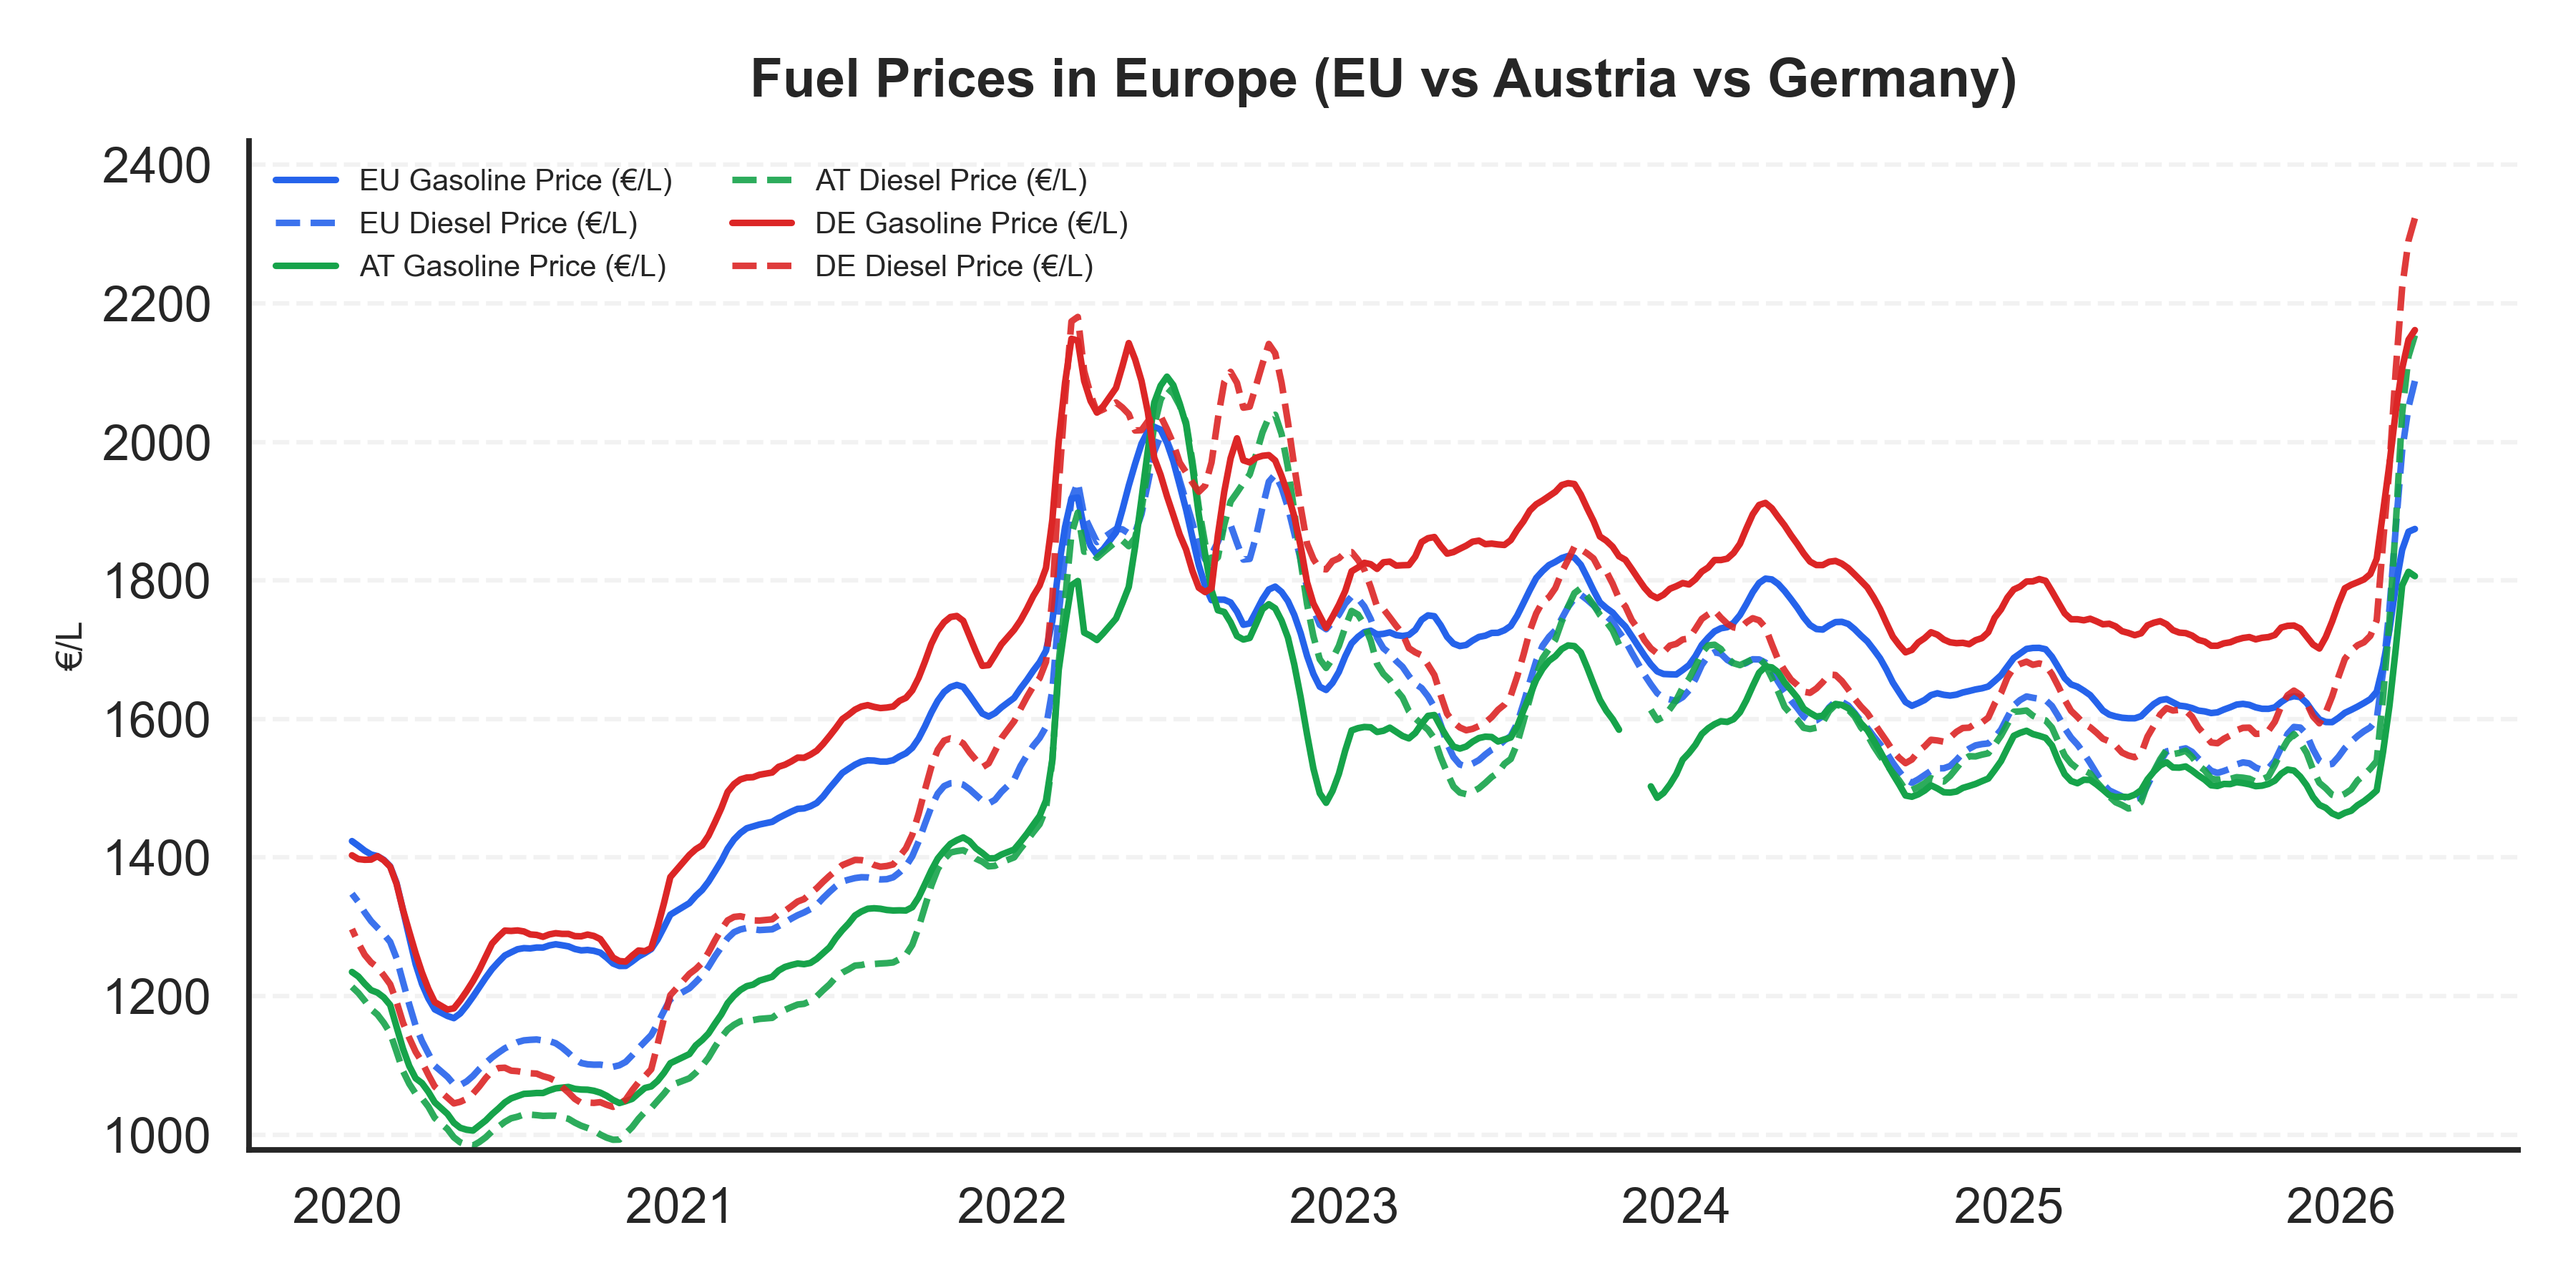
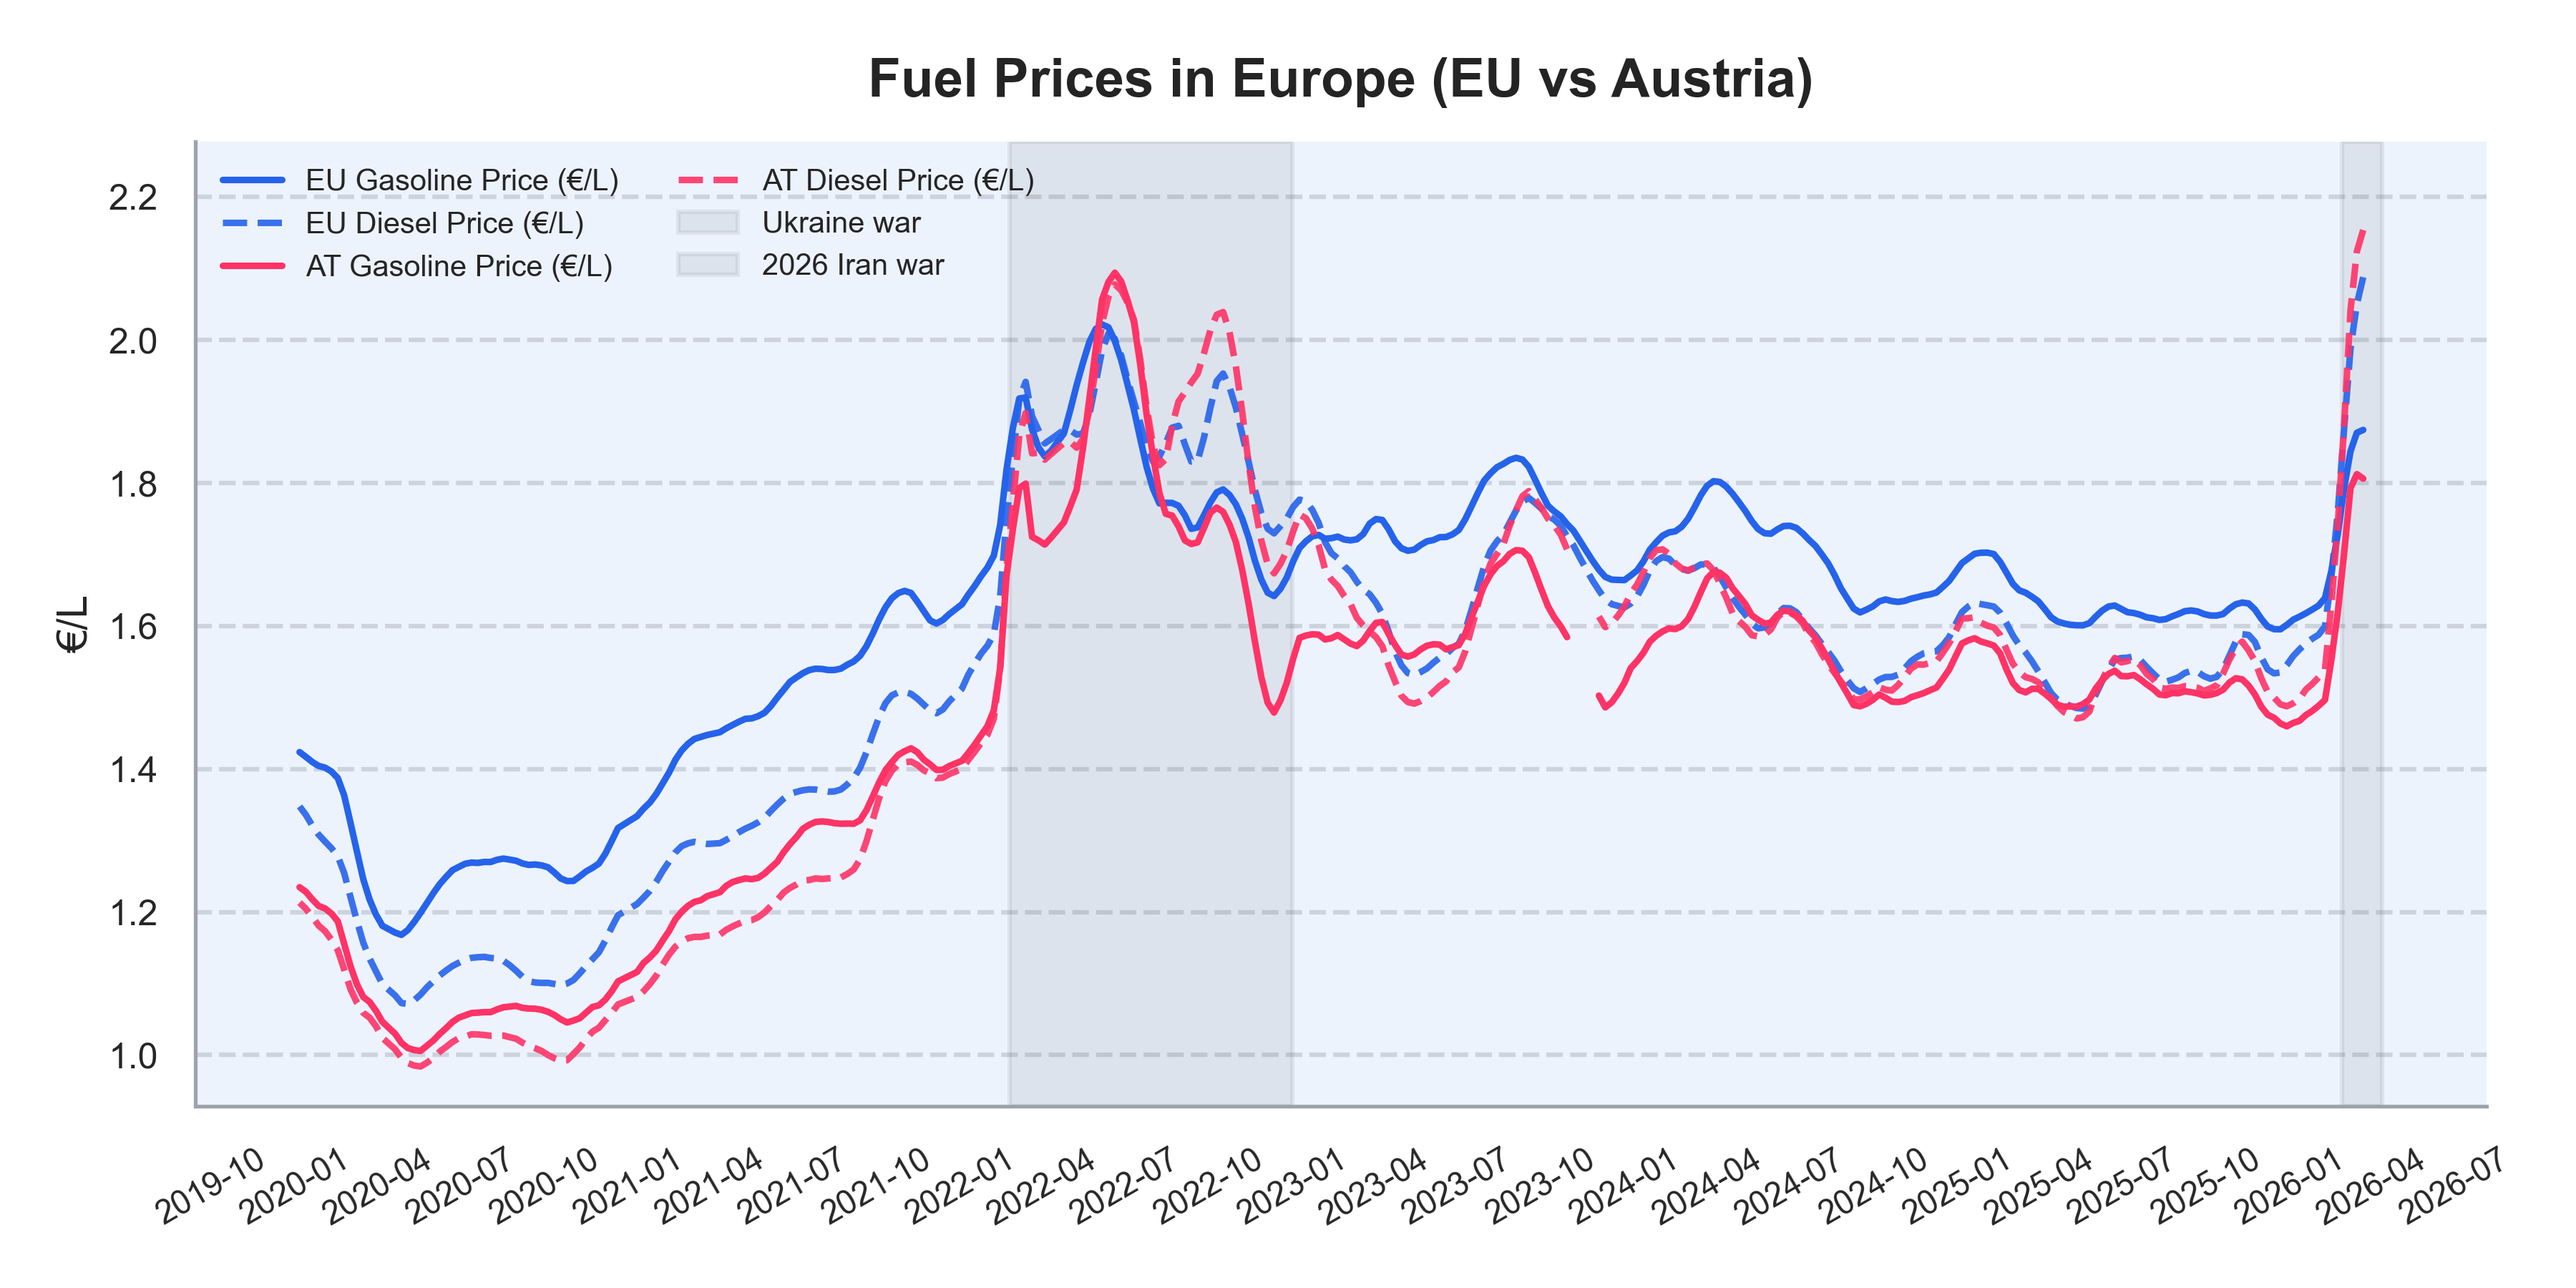
Normalize price columns in transform.py

diff --git a/src/visualization.py b/src/visualization.py
@@ -1,8 +1,43 @@
 import matplotlib.pyplot as plt
 import seaborn as sns
 import matplotlib.dates as mdates
+import pandas as pd
 
 sns.set_theme(style="white", context="talk")
+
+def style_ax(ax):
+    # Background
+    ax.set_facecolor("#EDF3FD")  # white smoke
+
+    # Grid (subtle, vertical only)
+    ax.grid(True, axis="y", color="#9ca3af", linestyle="--", alpha=0.4)
+
+    # Customize spines
+    sns.despine(ax=ax, left=False, bottom=False)
+
+    for spine in ["left", "bottom", "right", "top"]:
+        ax.spines[spine].set_linewidth(1.25)
+        ax.spines[spine].set_color("#9ca3af")
+
+    # Tick styling
+    ax.tick_params(axis='x', labelsize=11, rotation=30)
+    ax.tick_params(axis='y', labelsize=12)
+
+    # Labels
+    ax.yaxis.label.set_color("#242424")
+    ax.xaxis.label.set_color("#242424")
+    ax.set_ylabel("€/L", fontsize=14)
+
+    # Title
+    ax.title.set_color("#242424")
+    
+    # Grid
+    ax.legend(
+        frameon=False,
+        ncol=2,
+        fontsize=10,
+        loc="upper left"
+    )
 
 def visualize_data(df):
 
@@ -10,9 +45,9 @@ def visualize_data(df):
 
     # --- COLOR SYSTEM (by country) ---
     COLORS = {
-        "EU": "#2563eb",   # blue
-        "AT": "#16a34a",   # green
-        "DE": "#dc2626"    # red
+        "EU": "#2563EB",   # blue
+        "AT": "#FF3366",   # red
+        "DE": "#011627"    # black
     }
 
     # --- PLOT (grouped logic) ---
@@ -20,7 +55,7 @@ def visualize_data(df):
         if col == "Date":
             continue
 
-        country = col.split("_")[0]   # EU, AT, DE
+        country = col.split("_")[0]   # EU, AT
 
         if "Gasoline" in col:
             linestyle = "-"
@@ -41,13 +76,11 @@ def visualize_data(df):
 
     # --- TITLE ---
     ax.set_title(
-        "Fuel Prices in Europe (EU vs Austria vs Germany)",
+        "Fuel Prices in Europe (EU vs Austria)",
         fontsize=18,
         pad=15,
         weight="bold"
     )
-
-    ax.set_ylabel("€/L", fontsize=12)
 
     # --- Y RANGE ---
     y_min = df.drop(columns=["Date"]).min().min()
@@ -55,23 +88,16 @@ def visualize_data(df):
     ax.set_ylim(y_min - 0.05, y_max + 0.05)
 
     # --- X AXIS (CLEANER) ---
-    ax.xaxis.set_major_locator(mdates.YearLocator())
-    ax.xaxis.set_major_formatter(mdates.DateFormatter('%Y'))
+    ax.xaxis.set_major_locator(mdates.MonthLocator(interval=3))
+    ax.xaxis.set_major_formatter(mdates.DateFormatter('%Y-%m'))
 
-    # --- GRID (ONLY HORIZONTAL!) ---
-    ax.grid(True, axis="y", linestyle="--", alpha=0.25)
-    ax.grid(False, axis="x")
+    ax.axvspan(pd.Timestamp("2022-02-24"), pd.Timestamp("2023-01-01"),
+        color="#535C65", alpha=0.1, label="Ukraine war")
+    
+    ax.axvspan(pd.Timestamp("2026-02-28"), pd.Timestamp("2026-04-13"),
+        color="#535C65", alpha=0.1, label="2026 Iran war")
 
-    # --- SPINES ---
-    sns.despine(ax=ax)
-
-    # --- LEGEND (clean & readable) ---
-    ax.legend(
-        frameon=False,
-        ncol=2,
-        fontsize=10,
-        loc="upper left"
-    )
+    style_ax(ax)
 
     plt.tight_layout()
     plt.savefig("outputs/fuel_prices.png", dpi=300)

diff --git a/src/transform.py b/src/transform.py
@@ -28,12 +28,12 @@ def transform_data(df):
             "EU_price_with_tax_euro95",
             "EU_price_with_tax_diesel",
             "AT_price_with_tax_euro95",
-            "AT_price_with_tax_diesel",
-            "DE_price_with_tax_euro95",
-            "DE_price_with_tax_diesel"]
+            "AT_price_with_tax_diesel"]
     )]
 
     df = df[["Date"] + relevant_cols]
+
+    df[relevant_cols] = df[relevant_cols] / 1000
 
     # --- Rename columns cleanly ---
     rename_col = {
